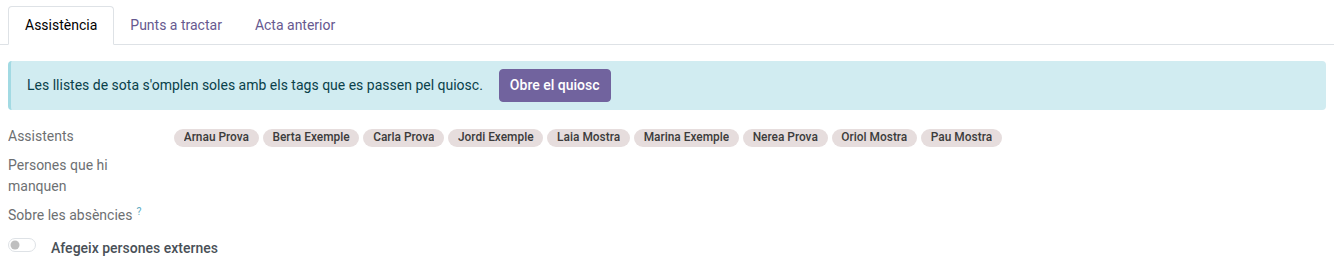
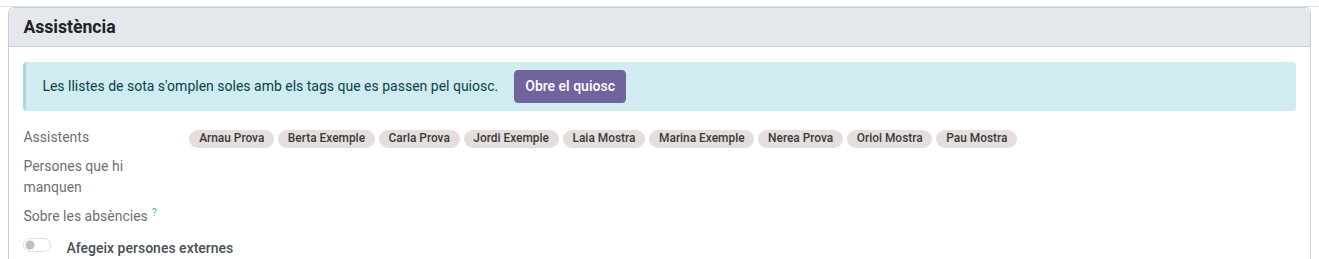
Minutes: the NFC attendance kiosk opens and closes only once the meeting has started

diff --git a/static/tests/tours/minute_tour.js b/static/tests/tours/minute_tour.js
@@ -77,8 +77,9 @@ registry.category("web_tour.tours").add("ems_minute_write", {
             run: "click",
         },
         {
-            trigger: "button[name='action_open_attendance_kiosk']",
-            content: "The kiosk of the meeting is ready to be opened",
+            // While the meeting is prepared the kiosk is not offered: it opens once the meeting starts.
+            trigger: ".o_notebook .alert-info:not(:has(button[name='action_open_attendance_kiosk']))",
+            content: "The kiosk waits for the meeting to start",
         },
         ...checkActions({ offered: ["action_send_call", "action_start_meeting", "action_delete"], notOffered: ["action_submit", "action_approve"] },
             "While it is prepared, a meeting offers to send its call, to start and to be deleted"),
@@ -87,6 +88,10 @@ registry.category("web_tour.tours").add("ems_minute_write", {
             trigger: ".o_dialog .modal-footer .btn-primary",
             content: "Confirm the change of state",
             run: "click",
+        },
+        {
+            trigger: "div[name='block_attendance'] button[name='action_open_attendance_kiosk']",
+            content: "Once the meeting has started, its kiosk is ready to be opened",
         },
         {
             // The type lays the minute out: its text sections are there, each with its own box

diff --git a/models/quality/minute.py b/models/quality/minute.py
@@ -803,6 +803,7 @@ class EmsMinute(models.Model):
         presence = self.presence_id.sudo()
         if not presence:
             raise UserError(_("This minute does not take attendance with the NFC tag."))
+        self._ems_check_meeting_held()
         if presence.state == 'draft':
             presence.action_open()
         return {'type': 'ir.actions.act_url', 'url': presence.kiosk_url, 'target': 'new'}
@@ -814,6 +815,8 @@ class EmsMinute(models.Model):
         self.check_access('write')
         if not self.presence_id:
             raise UserError(_("This minute does not take attendance with the NFC tag."))
+        if self.state == 'draft':
+            raise UserError(_("Attendance is taken once the meeting has started."))
         return {
             'type': 'ir.actions.act_window',
             'name': _("Correct the attendance"),
@@ -828,11 +831,17 @@ class EmsMinute(models.Model):
         """Stop taking attendance: whoever has not passed the tag by now was absent."""
         self.ensure_one()
         self.check_access('write')
+        self._ems_check_meeting_held()
         presence = self.presence_id.sudo()
         if presence.state == 'open':
             presence.action_close()
         self._ems_sync_attendance()
         return True
+
+    def _ems_check_meeting_held(self):
+        """The kiosk opens and closes only while the meeting is being held."""
+        if self.state != 'meeting':
+            raise UserError(_("Attendance is taken once the meeting has started."))
 
     def action_start_meeting(self):
         """From preparing the meeting to holding it: the minute opens for writing."""
@@ -855,6 +864,8 @@ class EmsMinute(models.Model):
     def action_back_to_draft(self):
         """Back to draft takes back the sending for approval too: the minute is no longer what
         was sent."""
+        if any(minute.state == 'meeting' and minute.presence_id and minute.presence_id.sudo().state != 'draft' for minute in self):
+            raise UserError(_("Attendance has already been taken at the kiosk: the meeting can no longer go back to being prepared."))
         result = super().action_back_to_draft()
         self.write({'submission_date': False, 'submitted_by_id': False})
         return result

diff --git a/tests/test_quality_minute.py b/tests/test_quality_minute.py
@@ -232,10 +232,32 @@ class TestQualityMinute(TransactionCase):
         with self.assertRaises(UserError):
             self._minute(attendance_mode='nfc')
 
+    def test_attendance_waits_for_the_meeting_to_start(self):
+        """While the meeting is being prepared its session can be neither opened nor closed, from
+        the minute or from the session's own screen; once attendance is taken at the kiosk the
+        meeting no longer goes back to being prepared."""
+        minute = self._nfc_minute()
+        presence = minute.presence_id.sudo()
+        self.assertTrue(presence.waits_for_meeting)
+        for refused in (minute.action_open_attendance_kiosk, minute.action_close_attendance,
+                        minute.action_correct_attendance, presence.action_open):
+            with self.assertRaises(UserError):
+                refused()
+        self.assertEqual(presence.state, 'draft')
+        minute.action_start_meeting()
+        self.assertFalse(presence.waits_for_meeting)
+        minute.action_back_to_draft()  # nothing taken yet: still possible
+        minute.action_start_meeting()
+        minute.action_open_attendance_kiosk()
+        with self.assertRaises(UserError):
+            minute.action_back_to_draft()
+        self.assertEqual(minute.state, 'meeting')
+
     def test_the_lists_are_filled_from_the_tags(self):
         colleague_user = create_role_user(self, 'teacher', 'minute.colleague@example.com', name='Minute Colleague')
         colleague = create_role_employee(self, colleague_user, department_id=self.department.id)
         minute = self._nfc_minute()
+        minute.action_start_meeting()
         action = minute.action_open_attendance_kiosk()
         presence = minute.presence_id.sudo()
         self.assertEqual(presence.state, 'open')
@@ -250,6 +272,7 @@ class TestQualityMinute(TransactionCase):
 
     def test_closing_the_session_from_its_own_screen_fills_the_minute_too(self):
         minute = self._nfc_minute()
+        minute.action_start_meeting()
         presence = minute.presence_id.sudo()
         presence.action_open()
         presence.line_ids.filtered(lambda line: line.employee_id.id == self.employee.id).state = 'present'

diff --git a/tests/test_docs_screenshots_minutes.py b/tests/test_docs_screenshots_minutes.py
@@ -108,6 +108,7 @@ class TestDocsScreenshotsMinutes(DocsScreenshotMixin, HttpCase):
                                        'organisation': 'Tècnica de la planta de tractament', 'send_call': True})]
         # The same meeting with the NFC tag, for its attendance box.
         cls.nfc = _minute(datetime(2026, 11, 4, 16, 0), attendance_mode='nfc')
+        cls.nfc.action_start_meeting()  # the kiosk is offered once the meeting has started
 
         # A meeting being held, with an agreement of its own.
         cls.held = _minute(datetime(2026, 11, 4, 16, 0))
@@ -156,9 +157,9 @@ class TestDocsScreenshotsMinutes(DocsScreenshotMixin, HttpCase):
         self._capture(self._minute_url(self.draft), '.o_notebook', 'actes-03-assistencia.png', login=login,
                       wait_for='.o_field_widget[name=guest_ids] .o_data_row', run=self._room('.o_notebook .tab-content'), wait_after='.o_notebook',
                       marks=[('label[for^=attendee_ids]', 1, 'left'), ('.o_field_widget[name=guest_ids]', 2, 'top')])
-        self._capture(self._minute_url(self.nfc), '.o_notebook', 'actes-04-nfc.png', login=login,
-                      wait_for="button[name=action_open_attendance_kiosk]", run=self.HIDE_CHATTER, wait_after='.o_notebook',
-                      max_height=260)
+        self._capture(self._minute_url(self.nfc), "div[name=block_attendance]", 'actes-04-nfc.png', login=login,
+                      wait_for="button[name=action_open_attendance_kiosk]", run=self._show("div[name=block_attendance]"),
+                      wait_after="div[name=block_attendance]", max_height=260, beyond_viewport=False)
         self._capture(self._minute_url(self.draft), '.o_notebook', 'actes-05-punts.png', login=login,
                       wait_for=".o_notebook a.nav-link[name=agenda]", click=".o_notebook a.nav-link[name=agenda]",
                       wait_after='.o_field_widget[name=agenda_ids] .o_data_row')

diff --git a/models/meetings/presence.py b/models/meetings/presence.py
@@ -152,6 +152,9 @@ class EmsMeetingPresence(models.Model):
     # The minute that asked for this session, if any: whoever may write it may correct its
     # attendance by hand (security/rules/quality.xml), and a correction updates its lists.
     minute_ids = fields.One2many(string="Minutes", comodel_name="ems.minute", inverse_name="presence_id")
+    waits_for_meeting = fields.Boolean(
+        string="Waits for the meeting", compute="_compute_waits_for_meeting", compute_sudo=True,
+        help="The session of a minute still being prepared: it opens when its meeting starts.")
 
     convened_count = fields.Integer(string="Convened", compute="_compute_counts")
     present_count = fields.Integer(string="Present", compute="_compute_counts")
@@ -202,6 +205,11 @@ class EmsMeetingPresence(models.Model):
             presence.pending_count = states.count('pending')
             presence.justified_count = states.count('justified')
             presence.absent_count = states.count('absent')
+
+    @api.depends('minute_ids.state')
+    def _compute_waits_for_meeting(self):
+        for presence in self:
+            presence.waits_for_meeting = any(minute.state == 'draft' for minute in presence.minute_ids)
 
     @api.constrains('date', 'date_end', 'duration')
     def _check_ends_after_start(self):
@@ -276,6 +284,8 @@ class EmsMeetingPresence(models.Model):
         for presence in self:
             if presence.state != 'draft':
                 raise UserError(_("Only a draft meeting attendance can be opened."))
+            if presence.waits_for_meeting:
+                raise UserError(_("This attendance belongs to a minute: it opens when its meeting starts."))
             presence.state = 'open'
         return True
 

diff --git a/tests/test_quality_minute_rules.py b/tests/test_quality_minute_rules.py
@@ -207,6 +207,7 @@ class TestQualityMinuteAttendanceCorrection(MinuteRulesFixtures, TransactionCase
 
     def test_whoever_writes_the_minute_corrects_its_attendance(self):
         minute = self._nfc_minute()
+        minute.action_start_meeting()
         action = minute.with_user(self.user_a).action_correct_attendance()
         self.assertEqual((action['res_model'], action['res_id']), ('ems.meeting.presence', minute.presence_id.id))
         line = minute.presence_id.line_ids.filtered(lambda item: item.employee_id.id == self.employee_b.id)

diff --git a/docs/en/developers/meetings/meeting_presence.md b/docs/en/developers/meetings/meeting_presence.md
@@ -156,6 +156,7 @@ The roles above that convene sessions see them all (`rule_meeting_presence_overs
 A session can be created on its own (Head of Studies, secretariat) or **by a minute**: whoever sets a minute up chooses, in the form, whether attendance is written by hand or taken with the NFC tag (`ems.minute.attendance_mode`). With the tag, saving the minute creates its session (`ems.minute.presence_id`, `_ems_sync_presence()`):
 
 - **With sudo.** A teacher writes minutes but only reaches a session through one of them (see Access control). The session of a minute is created for them, with the writer as `convener_id`, so the meetings page opens its kiosk with their own tag and the minute's *Open the kiosk* button does the same from the form.
+- **The session waits for the meeting.** While its minute is being prepared (`draft`), the session cannot be opened (`waits_for_meeting`, checked by `action_open()`, which also hides *Start attendance* on the session's form); the minute offers *Open the kiosk* and *Close attendance* (`_ems_check_meeting_held()`) and *Correct the attendance* only from the `meeting` state, and refuses to go back to preparing once the session has been opened.
 - **One convened list, the minute's.** The session's lines are the attendees the minute preloaded from its scope, and its scope (`_ems_presence_scope()`: department, workgroup, group, centre or by hand) and target are copied over, so *Load convened people* on the session finds the same people.
 - **One rule for who a scope convenes.** `ems.meeting.presence._ems_convened_employees(scope, company, department, workgroup, group)` (`@api.model`) is used by both the session (`_ems_scope_employees()`) and the minute (`_ems_preload_attendees()`): a department convenes its members and those of the departments under it (`child_of`, so an area such as VET convenes all of its departments), a workgroup its members, a group whoever teaches it (`ems.teaching`) plus its tutor even without a subject in it, `all_teachers`/`all_staff` the company's teachers or staff. Either list still takes anybody else by hand, and the minute also takes people from outside EMS (`ems.minute.guest`); a session does not, since they have no tag.
 - **The session follows the minute while it is a draft** (start, duration, room, name), and is deleted if the minute goes back to a hand-written list before anybody opened it. Once opened it is left alone.

diff --git a/docs/en/teachers/minutes.md b/docs/en/teachers/minutes.md
@@ -52,10 +52,11 @@ a meeting you attended, one of your department) opens **read-only**, with no act
    (1) The minute type, (2) whose meeting it is, (3) the date and time, (4) the room and (5) how attendance is taken.
 5. Choose how **attendance** is taken:
    - **Written by hand:** the **Attendance** tab already holds the list **filled in**, taken from the
-     scope (the department's members, the workgroup's, or the teachers of the group). Just move whoever
+     scope (the department's members, the workgroup's, or the group's teachers and its tutor). Just move whoever
      did not come to **Absentees**.
-   - **With the NFC tag:** set the **duration** and save the minute. In the **Attendance** tab, **Open
-     the kiosk** opens the screen where each person passes their tag; **Close attendance** ends it and
+   - **With the NFC tag:** set the **duration** and save the minute. The kiosk is offered once the meeting
+     has started (see "Holding the meeting and writing the minute" below): then, in the **Attendance** block, **Open the kiosk** opens the
+     screen where each person passes their tag; **Close attendance** ends it and
      fills both lists: whoever passed the tag attended, everybody else is recorded as absent. If someone
      left their tag at home or it failed, **Actions → Correct the attendance** opens the session: if it
      is already closed, **Reopen** it, mark them by hand (present, or justified with a note) and close it

diff --git a/docs/ca/teachers/minutes.md b/docs/ca/teachers/minutes.md
@@ -52,9 +52,10 @@ veieu (la d'una reunió on vau assistir, la del vostre departament) s'obre **nom
 5. Trieu com es recull l'**assistència**:
    - **Anotada a mà:** a la pestanya **Assistència** ja hi trobareu la llista **omplerta**, treta de
      l'àmbit (els membres del departament, els de l'equip de treball o el professorat que fa classe al
-     grup). Només cal moure a **Persones que hi manquen** qui no hi hagi vingut.
-   - **Amb el tag NFC:** indiqueu la **durada** i deseu l'acta. A la pestanya **Assistència**, **Obre el
-     quiosc** obre la pantalla on cada persona passa el seu tag; **Tanca l'assistència** acaba la recollida
+     grup i el seu tutor). Només cal moure a **Persones que hi manquen** qui no hi hagi vingut.
+   - **Amb el tag NFC:** indiqueu la **durada** i deseu l'acta. El quiosc s'ofereix un cop ha començat la
+     reunió (vegeu «Fer la reunió i redactar l'acta», més avall): aleshores, al bloc **Assistència**, **Obre el quiosc** obre la
+     pantalla on cada persona passa el seu tag; **Tanca l'assistència** acaba la recollida
      i omple les dues llistes: qui ha passat el tag hi ha assistit, la resta consta com a absent. Si algú
      s'ha deixat el tag o no li ha funcionat, **Accions → Corregeix l'assistència** obre la sessió: si ja
      està tancada, **Reobrir**, marqueu-lo a mà (present, o justificat amb la nota) i torneu a tancar-la.

diff --git a/docs/es/teachers/minutes.md b/docs/es/teachers/minutes.md
@@ -52,9 +52,10 @@ veáis (la de una reunión a la que asististeis, la de vuestro departamento) se 
 5. Elegid cómo se recoge la **asistencia**:
    - **Anotada a mano:** en la pestaña **Asistencia** ya encontraréis la lista **rellenada**, sacada del
      ámbito (los miembros del departamento, los del equipo de trabajo o el profesorado que da clase al
-     grupo). Solo hay que mover a **Personas que faltan** a quien no haya venido.
-   - **Con el tag NFC:** indicad la **duración** y guardad el acta. En la pestaña **Asistencia**, **Abrir
-     el quiosco** abre la pantalla donde cada persona pasa su tag; **Cerrar la asistencia** termina la
+     grupo y su tutor). Solo hay que mover a **Personas que faltan** a quien no haya venido.
+   - **Con el tag NFC:** indicad la **duración** y guardad el acta. El quiosco se ofrece una vez ha empezado
+     la reunión (véase «Hacer la reunión y redactar el acta», más abajo): entonces, en el bloque **Asistencia**, **Abrir el quiosco**
+     abre la pantalla donde cada persona pasa su tag; **Cerrar la asistencia** termina la
      recogida y rellena las dos listas: quien ha pasado el tag ha asistido, el resto consta como ausente.
      Si alguien se ha dejado el tag o no le ha funcionado, **Acciones → Corregir la asistencia** abre la
      sesión: si ya está cerrada, **Reabrir**, marcadlo a mano (presente, o justificado con la nota) y

diff --git a/docs/en/developers/quality/quality_overview.md b/docs/en/developers/quality/quality_overview.md
@@ -166,8 +166,8 @@ stateDiagram-v2
 |---|---|---|---|
 | (before sending for approval) Send the call | `action_send_call` | whoever can write it | emails the convened; no change of state |
 | (in draft) Delete | `action_delete` (`unlink`) | whoever can write it (`rule_minute_teacher_unlink`, draft only) | its agenda, lines and agreements go with it, and its NFC session while still a draft; `_unlink_only_draft` refuses any other state, for every role |
-| Start the meeting | `action_start_meeting` | whoever can write it | the minute opens for writing |
-| Back to preparing / to the meeting / to draft | `action_back_to_draft`, `action_back_to_meeting` | whoever can write it | — |
+| Start the meeting | `action_start_meeting` | whoever can write it | the minute opens for writing; with the NFC tag, its kiosk can be opened |
+| Back to preparing / to the meeting / to draft | `action_back_to_draft`, `action_back_to_meeting` | whoever can write it | back to preparing is refused once its NFC session has been opened |
 | Send for approval | `action_submit` | whoever can write it | NFC attendance copied into the lists; the development composed from the items |
 | Approve | `action_approve` | **whoever gives the approval** (`can_approve`) | approval date set, PDF rendered and attached; irreversible |
 
